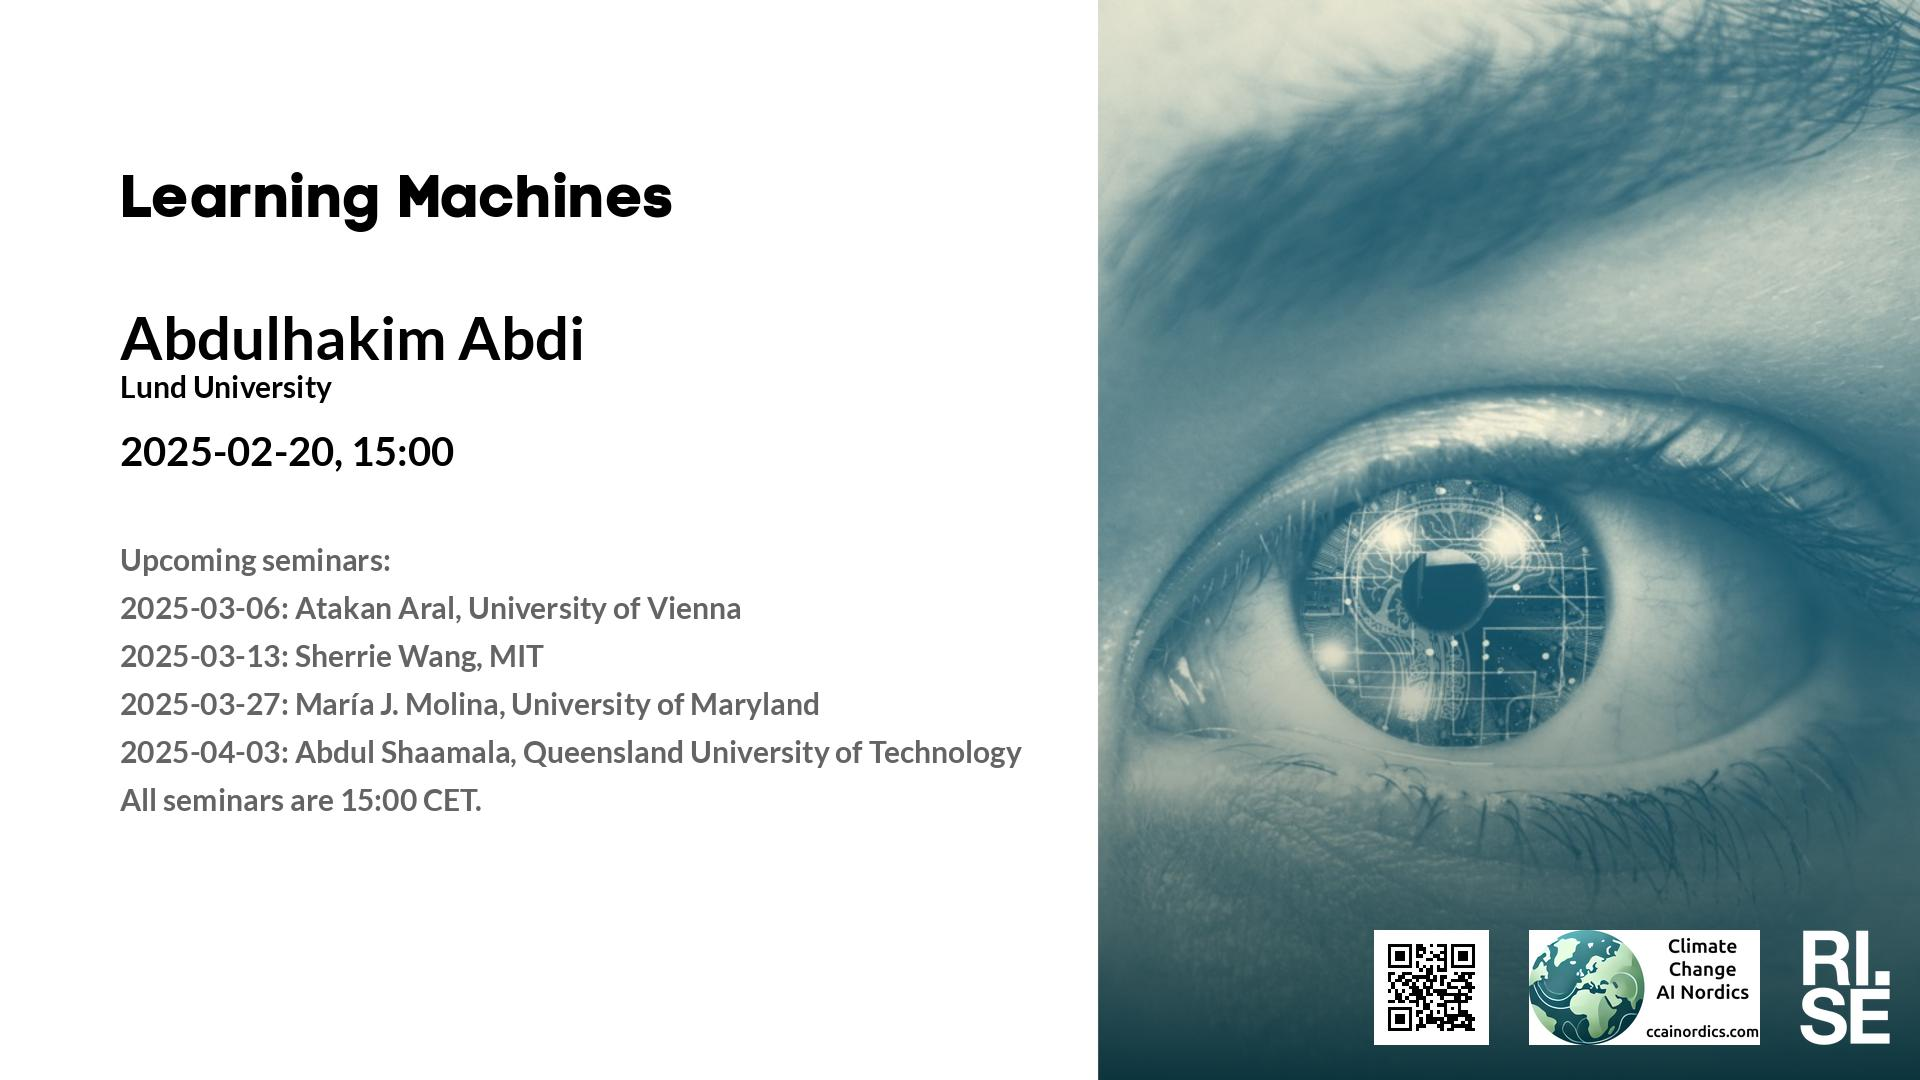
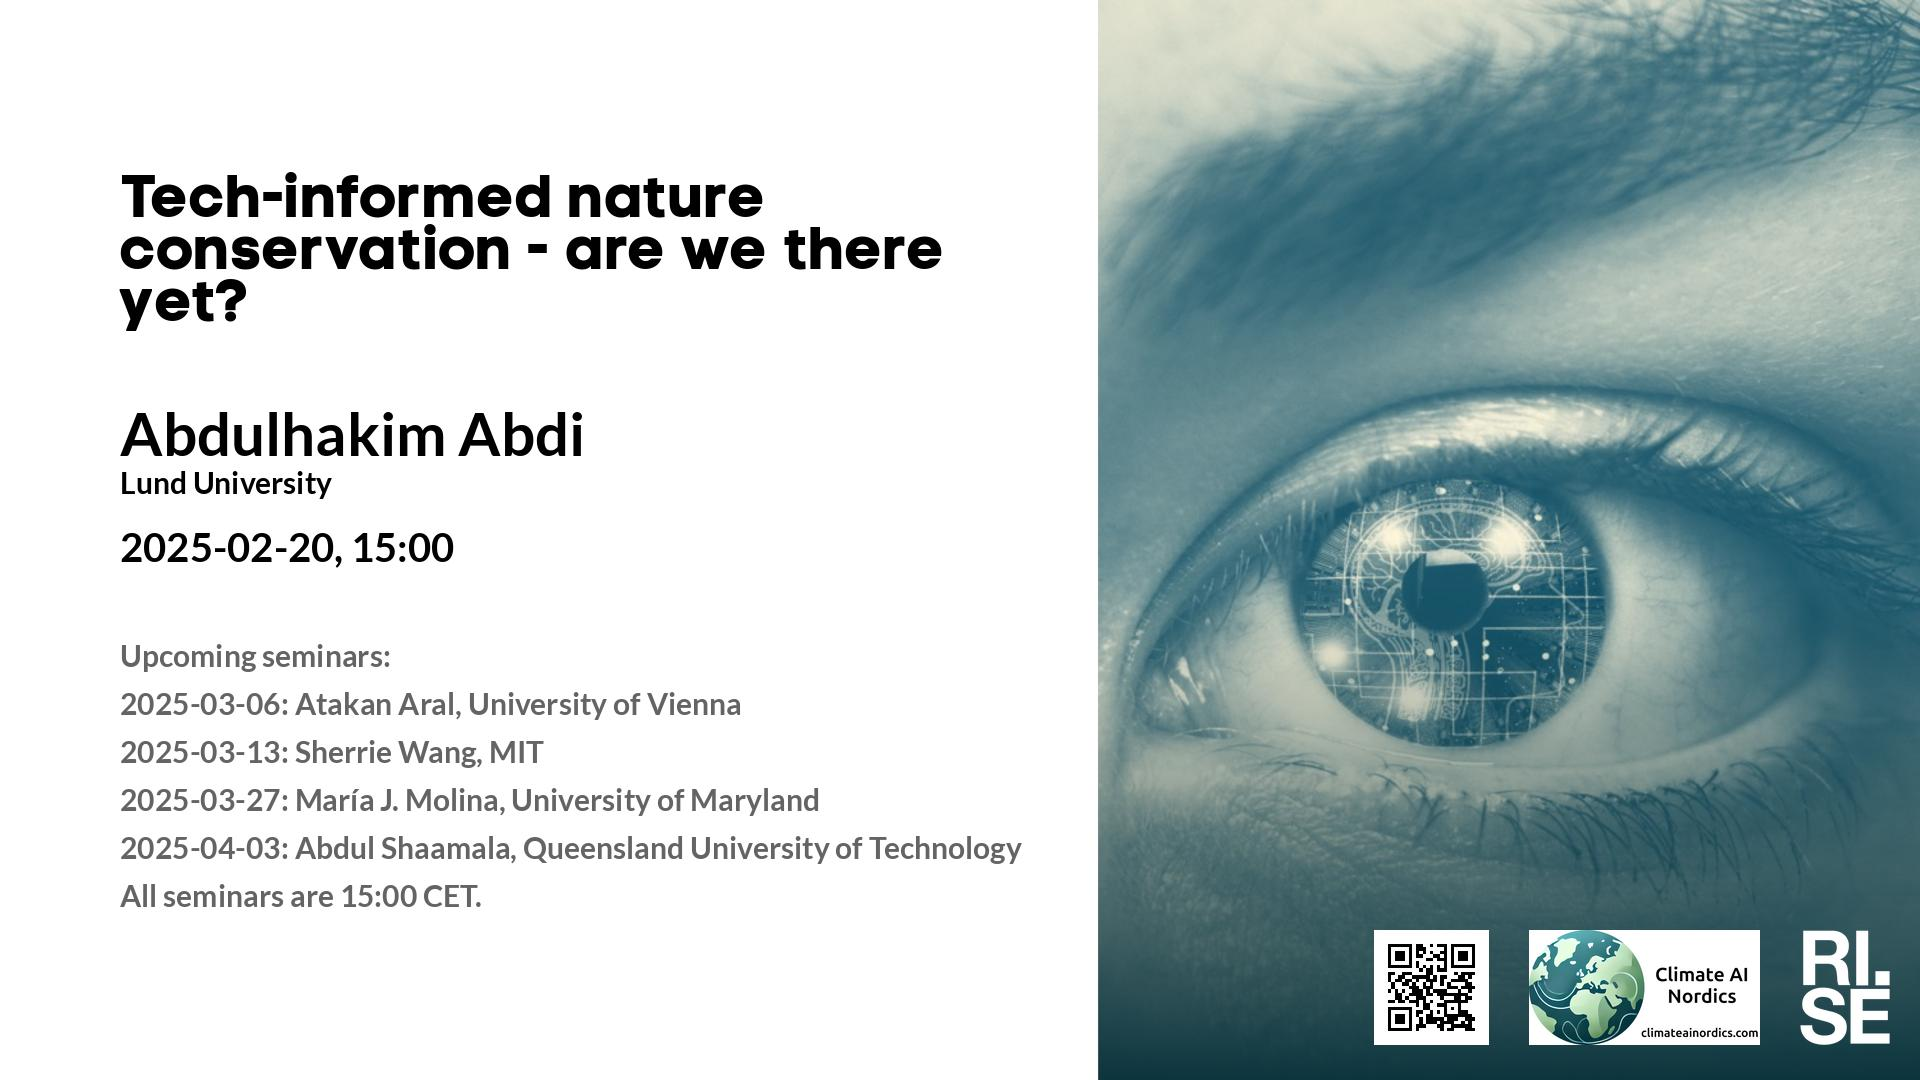
Updated plan on web site.

Changed region(s): [[0.0625, 0.4889, 0.5312, 0.8556], [0.0625, 0.1528, 0.5, 0.4583], [0.8438, 0.8556, 0.9062, 0.9778]]

diff --git a/lm/2025.md b/lm/2025.md
@@ -14,7 +14,7 @@ table {border-collapse: collapse;}
 |  2025-01-30  |  [Amal Nammouchi, Karlstad University and AfriClimate AI](2025-01-30.md)  |  [photo](2025-01-30-photo-amal-nammouchi.jpg)  |  [social media ](2025-01-30-social-media-amal-nammouchi.jpg)  |  [meeting backdrop ](2025-01-30-meeting-backdrop-amal-nammouchi.jpg)  |  [youtube thumbnail ](2025-01-30-youtube-thumbnail-amal-nammouchi.jpg)  |  STABP  |
 |  2025-02-06  |  [Benjamin Cretois, Norwegian Institute for Nature Research](2025-02-06.md)  |  [photo](2025-02-06-photo-benjamin-cretois.jpg)  |  [social media ](2025-02-06-social-media-benjamin-cretois.jpg)  |  [meeting backdrop ](2025-02-06-meeting-backdrop-benjamin-cretois.jpg)  |  [youtube thumbnail ](2025-02-06-youtube-thumbnail-benjamin-cretois.jpg)  |  STABP  |
 | <span style="color:red"> 2025-02-13 </span> | <span style="color:red"> Sportlov GBG </span> | <span style="color:red">  </span> | <span style="color:red">  </span> | <span style="color:red">  </span> | <span style="color:red">  </span> | <span style="color:red"> CANCELLED </span> |
-|  2025-02-20  |  [Abdulhakim Abdi, Lund University](2025-02-20.md)  |  [photo](2025-02-20-photo-abdulhakim-abdi.jpg)  |  [social media ](2025-02-20-social-media-abdulhakim-abdi.jpg)  |  [meeting backdrop ](2025-02-20-meeting-backdrop-abdulhakim-abdi.jpg)  |  [youtube thumbnail ](2025-02-20-youtube-thumbnail-abdulhakim-abdi.jpg)  |  S~~TAB~~P  |
+|  2025-02-20  |  [Abdulhakim Abdi, Lund University](2025-02-20.md)  |  [photo](2025-02-20-photo-abdulhakim-abdi.jpg)  |  [social media ](2025-02-20-social-media-abdulhakim-abdi.jpg)  |  [meeting backdrop ](2025-02-20-meeting-backdrop-abdulhakim-abdi.jpg)  |  [youtube thumbnail ](2025-02-20-youtube-thumbnail-abdulhakim-abdi.jpg)  |  STABP  |
 | <span style="color:red"> 2025-02-27 </span> | <span style="color:red"> Sportlov STHLM </span> | <span style="color:red">  </span> | <span style="color:red">  </span> | <span style="color:red">  </span> | <span style="color:red">  </span> | <span style="color:red"> CANCELLED </span> |
 |  2025-03-06  |  [Atakan Aral, University of Vienna](2025-03-06.md)  |  [photo](2025-03-06-photo-atakan-aral.jpg)  |  [social media ](2025-03-06-social-media-atakan-aral.jpg)  |  [meeting backdrop ](2025-03-06-meeting-backdrop-atakan-aral.jpg)  |  [youtube thumbnail ](2025-03-06-youtube-thumbnail-atakan-aral.jpg)  |  S~~TAB~~P  |
 |  2025-03-13  |  [Sherrie Wang, MIT](2025-03-13.md)  |  [photo](2025-03-13-photo-sherrie-wang.jpg)  |  [social media ](2025-03-13-social-media-sherrie-wang.jpg)  |  [meeting backdrop ](2025-03-13-meeting-backdrop-sherrie-wang.jpg)  |  [youtube thumbnail ](2025-03-13-youtube-thumbnail-sherrie-wang.jpg)  |  S~~TA~~BP  |

diff --git a/lm/index.md b/lm/index.md
@@ -14,7 +14,7 @@ table {border-collapse: collapse;}
 |  2025-01-30  |  [Amal Nammouchi, Karlstad University and AfriClimate AI](2025-01-30.md)  |  [photo](2025-01-30-photo-amal-nammouchi.jpg)  |  [social media ](2025-01-30-social-media-amal-nammouchi.jpg)  |  [meeting backdrop ](2025-01-30-meeting-backdrop-amal-nammouchi.jpg)  |  [youtube thumbnail ](2025-01-30-youtube-thumbnail-amal-nammouchi.jpg)  |  STABP  |
 |  2025-02-06  |  [Benjamin Cretois, Norwegian Institute for Nature Research](2025-02-06.md)  |  [photo](2025-02-06-photo-benjamin-cretois.jpg)  |  [social media ](2025-02-06-social-media-benjamin-cretois.jpg)  |  [meeting backdrop ](2025-02-06-meeting-backdrop-benjamin-cretois.jpg)  |  [youtube thumbnail ](2025-02-06-youtube-thumbnail-benjamin-cretois.jpg)  |  STABP  |
 | <span style="color:red"> 2025-02-13 </span> | <span style="color:red"> Sportlov GBG </span> | <span style="color:red">  </span> | <span style="color:red">  </span> | <span style="color:red">  </span> | <span style="color:red">  </span> | <span style="color:red"> CANCELLED </span> |
-|  2025-02-20  |  [Abdulhakim Abdi, Lund University](2025-02-20.md)  |  [photo](2025-02-20-photo-abdulhakim-abdi.jpg)  |  [social media ](2025-02-20-social-media-abdulhakim-abdi.jpg)  |  [meeting backdrop ](2025-02-20-meeting-backdrop-abdulhakim-abdi.jpg)  |  [youtube thumbnail ](2025-02-20-youtube-thumbnail-abdulhakim-abdi.jpg)  |  S~~TAB~~P  |
+|  2025-02-20  |  [Abdulhakim Abdi, Lund University](2025-02-20.md)  |  [photo](2025-02-20-photo-abdulhakim-abdi.jpg)  |  [social media ](2025-02-20-social-media-abdulhakim-abdi.jpg)  |  [meeting backdrop ](2025-02-20-meeting-backdrop-abdulhakim-abdi.jpg)  |  [youtube thumbnail ](2025-02-20-youtube-thumbnail-abdulhakim-abdi.jpg)  |  STABP  |
 | <span style="color:red"> 2025-02-27 </span> | <span style="color:red"> Sportlov STHLM </span> | <span style="color:red">  </span> | <span style="color:red">  </span> | <span style="color:red">  </span> | <span style="color:red">  </span> | <span style="color:red"> CANCELLED </span> |
 |  2025-03-06  |  [Atakan Aral, University of Vienna](2025-03-06.md)  |  [photo](2025-03-06-photo-atakan-aral.jpg)  |  [social media ](2025-03-06-social-media-atakan-aral.jpg)  |  [meeting backdrop ](2025-03-06-meeting-backdrop-atakan-aral.jpg)  |  [youtube thumbnail ](2025-03-06-youtube-thumbnail-atakan-aral.jpg)  |  S~~TAB~~P  |
 |  2025-03-13  |  [Sherrie Wang, MIT](2025-03-13.md)  |  [photo](2025-03-13-photo-sherrie-wang.jpg)  |  [social media ](2025-03-13-social-media-sherrie-wang.jpg)  |  [meeting backdrop ](2025-03-13-meeting-backdrop-sherrie-wang.jpg)  |  [youtube thumbnail ](2025-03-13-youtube-thumbnail-sherrie-wang.jpg)  |  S~~TA~~BP  |

diff --git a/lm/2025-02-20.md b/lm/2025-02-20.md
@@ -7,13 +7,13 @@ Welcome to this week's Learning Machines seminar.
 
 This seminar is a collaboration between RISE and Climate AI Nordics -- [climateainordics.com](https://climateainordics.com/).
 
-**Title:** N/A
+**Title:** Tech-informed nature conservation - are we there yet?
 
 **Speaker:** Abdulhakim Abdi, Lund University
 
-**Abstract:** N/A
+**Abstract:** In the face of a global biodiversity crisis, the ability to efficiently monitor ecological change across space and time has never been more accessible. Advances in satellite remote sensing and AI have opened new frontiers for biodiversity monitoring by offering powerful tools to analyze vast datasets, automate species detection, and improve disturbance tracking. While these technologies hold great promise, their widespread adoption faces key challenges, including data accessibility, environmental costs, model interpretability, and the need for stronger interdisciplinary collaboration. This presentation explores the opportunities and limitations of tech-driven nature conservation, assessing whether current developments are sufficient to bridge critical knowledge gaps. The integration of remote sensing with AI brings us closer to a more data-informed approach to managing the living world - but are we truly ready to harness its full potential?
 
-**About the speaker:** N/A
+**About the speaker:** I am a geographer and environmental scientist specializing in the interaction between natural ecosystems and human activity. My research focuses on leveraging remote sensing, machine learning, and spatial analysis to improve biodiversity monitoring and conservation efforts. Currently, I am working on mapping tree species composition using satellite imagery to enhance forest management strategies. I have a PhD in Physical Geography and Ecosystem Science and an MSc in Geospatial Technologies. Currently, I am a senior researcher at the Center for Environmental and Climate Science, Lund University.
 
 **Location:** RISE Lund Office (Scheelevägen 17), or online using Zoom.
 
